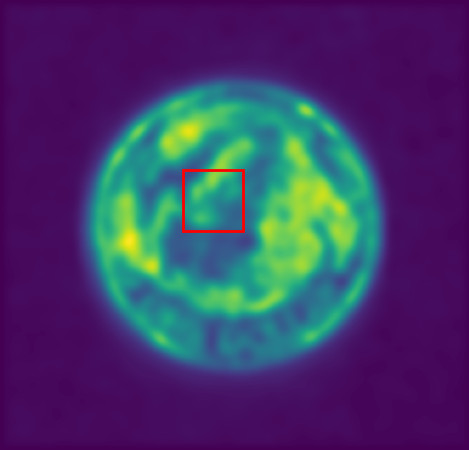
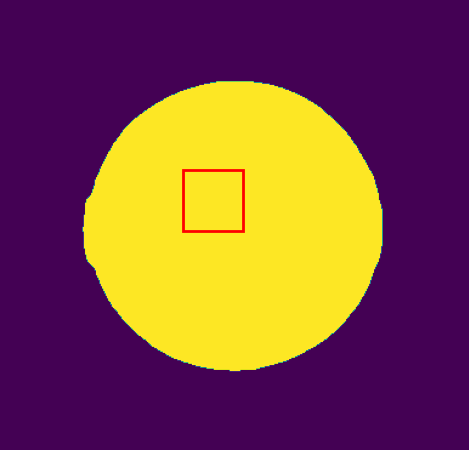
feat: finish easy task for coin detection

diff --git a/CS373_2024_Assignment_Coin_Detection/CS373_coin_detection.py b/CS373_2024_Assignment_Coin_Detection/CS373_coin_detection.py
@@ -1,6 +1,7 @@
 # Built in packages
 import math
 import sys
+import copy
 
 # Matplotlib will need to be installed if it isn't already. This is the only package allowed for this base part of the 
 # assignment.
@@ -9,6 +10,22 @@ from matplotlib.patches import Rectangle
 
 # import our basic, light-weight png reader library
 import imageIO.png
+
+class Queue:
+    def __init__(self):
+        self.items = []
+
+    def isEmpty(self):
+        return self.items == []
+
+    def enqueue(self, item):
+        self.items.insert(0,item)
+
+    def dequeue(self):
+        return self.items.pop()
+
+    def size(self):
+        return len(self.items)
 
 # Define constant and global variables
 TEST_MODE = False    # Please, DO NOT change this variable!
@@ -130,6 +147,7 @@ def applyFilter(pixel_array, image_width, image_height, filter):
     result_array = createInitializedGreyscalePixelArray(image_width, image_height)
     for i in range(image_height):
         for j in range(image_width):
+            # set border ignore
             if i > hight // 2 - 1 and i < image_height - hight // 2 and j > width // 2 - 1 and j < image_width - width // 2:
                 result_array[i][j] = applyFilterToPixel(pixel_array, i, j, filter)
             else:
@@ -158,6 +176,148 @@ def getTwoDArrayAbsSum(arrayOne, arrayTwo):
             result[i][j] = abs(arrayOne[i][j]) + abs(arrayTwo[i][j])
     return result
 
+def computeThresholdGE(pixel_array, threshold_value, image_width, image_height):
+    result = pixel_array
+    for i in range(0,image_height):
+        for j in range(0,image_width):
+            if pixel_array[i][j] < threshold_value:
+                result[i][j] = 0
+            else:
+                result[i][j] = 255
+    return result
+
+import copy
+
+def computeDilation8Nbh3x3FlatSE(pixel_array, image_width, image_height, kernel):
+    result_array = copy.deepcopy(pixel_array)
+    for i in range(image_height):
+        for j in range(image_width):
+                if checkHit(pixel_array, i, j, kernel):
+                    result_array[i][j] = 1
+
+    return result_array
+
+
+def checkHit(pixel_array, i, j, kernel):
+    imageWidth = len(pixel_array[0])
+    imageHeight = len(pixel_array)
+    height = len(kernel)
+    width = len(kernel[0])
+    for x in range(height):
+        for y in range(width):
+            if kernel[x][y] == 0:
+                continue
+            # Assume border padding is 0
+            elif i - height // 2 + x < 0 or i - height // 2 + x >= imageHeight or j - width // 2 + y < 0 or j - width // 2 + y >= imageWidth:
+                continue
+            elif pixel_array[i - height // 2 + x][j - width // 2 + y] != 0:
+                return True
+    return False
+
+def computeErosion8Nbh3x3FlatSE(pixel_array, image_width, image_height, kernel):
+    result_array = copy.deepcopy(pixel_array)
+    for i in range(image_height):
+        for j in range(image_width):
+                if checkFit(pixel_array, i, j, kernel):
+                    result_array[i][j] = 1
+                else:
+                    result_array[i][j] = 0
+
+    return result_array
+
+def checkFit(pixel_array, i, j, kernel):
+    imageWidth = len(pixel_array[0])
+    imageHeight = len(pixel_array)
+    height = len(kernel)
+    width = len(kernel[0])   
+    for x in range(height):
+        for y in range(width):
+            if kernel[x][y] == 0:
+                continue
+            elif i - height // 2 + x < 0 or i - height // 2 + x >= imageHeight or j - width // 2 + y < 0 or j - width // 2 + y >= imageWidth:
+                return False
+            elif pixel_array[i - height // 2 + x][j - width // 2 + y] == 0:
+                return False
+    return True
+
+def computeConnectedComponentLabeling(pixel_array, image_width, image_height):
+    
+    result_array = copy.deepcopy(pixel_array)
+    for i in range(image_height):
+        for j in range(image_width):
+            if not pixel_array[i][j] == 0:
+                result_array[i][j] = -1
+
+
+    ID = 1
+    resultDict = {}
+    for i in range(image_height):
+        for j in range(image_width):
+            if result_array[i][j] == -1:
+                 size = treverseComponent(result_array, image_width, image_height, i, j, ID)
+                 resultDict[ID] = size
+                 ID = ID + 1
+    return(result_array, resultDict)
+                 
+def treverseComponent(result_array, image_width, image_height, i, j, ID):
+    size = 0
+    travelQueue = Queue()
+    travelQueue.enqueue([i,j])
+    while not travelQueue.isEmpty():
+        [i, j] = travelQueue.dequeue()
+        if not result_array[i][j] == -1:
+            continue
+        size = size + 1
+        result_array[i][j] = ID
+        if i - 1 > 0:
+            if result_array[i - 1][j] == -1:
+                travelQueue.enqueue([i - 1,j])
+        if j - 1 > 0:
+            if result_array[i][j - 1] == -1:
+                travelQueue.enqueue([i, j - 1])
+        if i + 1 < image_height:
+            if result_array[i + 1][j] == -1:
+                travelQueue.enqueue([i + 1, j])
+        if j + 1 < image_width:
+            if result_array[i][j + 1] == -1:
+                travelQueue.enqueue([i, j + 1])
+                
+    return size
+
+def getMinMaxXY(pixel_array, image_width, image_height, ID):
+    max_x = 0
+    max_y = 0
+    min_x = image_width
+    min_y = image_height
+    for i in range(image_height):
+        for j in range(image_width):
+            if pixel_array[i][j] == ID:
+                if i > max_y:
+                    max_y = i
+                if i < min_y:
+                    min_y = i
+                if j > max_x:
+                    max_x = j
+                if j < min_x:
+                    min_x = j
+    return [min_x, min_y, max_x, max_y]
+
+def getColorImage(pixel_array_r, pixel_array_g, pixel_array_b, image_width, image_height):
+    result = []
+    for i in range(image_height):
+        row = []
+        for j in range(image_width):
+            row.append([pixel_array_r[i][j], pixel_array_g[i][j], pixel_array_b[i][j]])
+        result.append(row)
+    return result
+
+def getKernel():
+    return [[0, 0, 1, 0, 0], 
+            [0, 1, 1, 1, 0], 
+            [1, 1, 1, 1, 1], 
+            [0, 1, 1, 1, 0], 
+            [0, 0, 1, 0, 0]]
+
 def getHorizontalScharrFilter():
     return [[3/32, 0, -3/32], [10/32, 0, -10/32], [3/32, 0, -3/32]]
 
@@ -174,7 +334,7 @@ def getMeanFilter():
 # This is our code skeleton that performs the coin detection.
 def main(input_path, output_path):
     # This is the default input image, you may change the 'image_name' variable to test other images.
-    image_name = 'easy_case_1'
+    image_name = 'easy_case_6'
     input_filename = f'./Images/easy/{image_name}.png'
     if TEST_MODE:
         input_filename = input_path
@@ -196,8 +356,29 @@ def main(input_path, output_path):
     px_array = applyFilter(px_array, image_width, image_height, getMeanFilter())
     px_array = applyFilter(px_array, image_width, image_height, getMeanFilter())
     px_array = applyFilter(px_array, image_width, image_height, getMeanFilter())
+    px_array = computeThresholdGE(px_array, 15, image_width, image_height)
+    px_array = computeDilation8Nbh3x3FlatSE(px_array, image_width, image_height, getKernel())
+    px_array = computeDilation8Nbh3x3FlatSE(px_array, image_width, image_height, getKernel())
+    px_array = computeDilation8Nbh3x3FlatSE(px_array, image_width, image_height, getKernel())
+    px_array = computeDilation8Nbh3x3FlatSE(px_array, image_width, image_height, getKernel())
+    px_array = computeDilation8Nbh3x3FlatSE(px_array, image_width, image_height, getKernel())
+    px_array = computeDilation8Nbh3x3FlatSE(px_array, image_width, image_height, getKernel())
+    px_array = computeDilation8Nbh3x3FlatSE(px_array, image_width, image_height, getKernel())
 
-
+    px_array = computeErosion8Nbh3x3FlatSE(px_array, image_width, image_height, getKernel())
+    px_array = computeErosion8Nbh3x3FlatSE(px_array, image_width, image_height, getKernel())
+    px_array = computeErosion8Nbh3x3FlatSE(px_array, image_width, image_height, getKernel())
+    px_array = computeErosion8Nbh3x3FlatSE(px_array, image_width, image_height, getKernel())
+    px_array = computeErosion8Nbh3x3FlatSE(px_array, image_width, image_height, getKernel())
+    px_array = computeErosion8Nbh3x3FlatSE(px_array, image_width, image_height, getKernel())
+    px_array = computeErosion8Nbh3x3FlatSE(px_array, image_width, image_height, getKernel())
+    
+    (result_array, resultDict) = computeConnectedComponentLabeling(px_array, image_width, image_height)
+    bounding_box_list = []
+    for key in resultDict:
+        bounding_box_list.append(getMinMaxXY(result_array, image_width, image_height, key))
+    
+    px_array = getColorImage(px_array_r, px_array_g, px_array_b, image_width, image_height)
     
     
     
@@ -210,7 +391,7 @@ def main(input_path, output_path):
     ### bounding_box[3] = max y
     ############################################
     
-    bounding_box_list = [[150, 140, 200, 190]]  # This is a dummy bounding box list, please comment it out when testing your own code.
+    #bounding_box_list = [[150, 140, 200, 190]]  # This is a dummy bounding box list, please comment it out when testing your own code.
 
     fig, axs = pyplot.subplots(1, 1)
     axs.imshow(px_array, aspect='equal')
